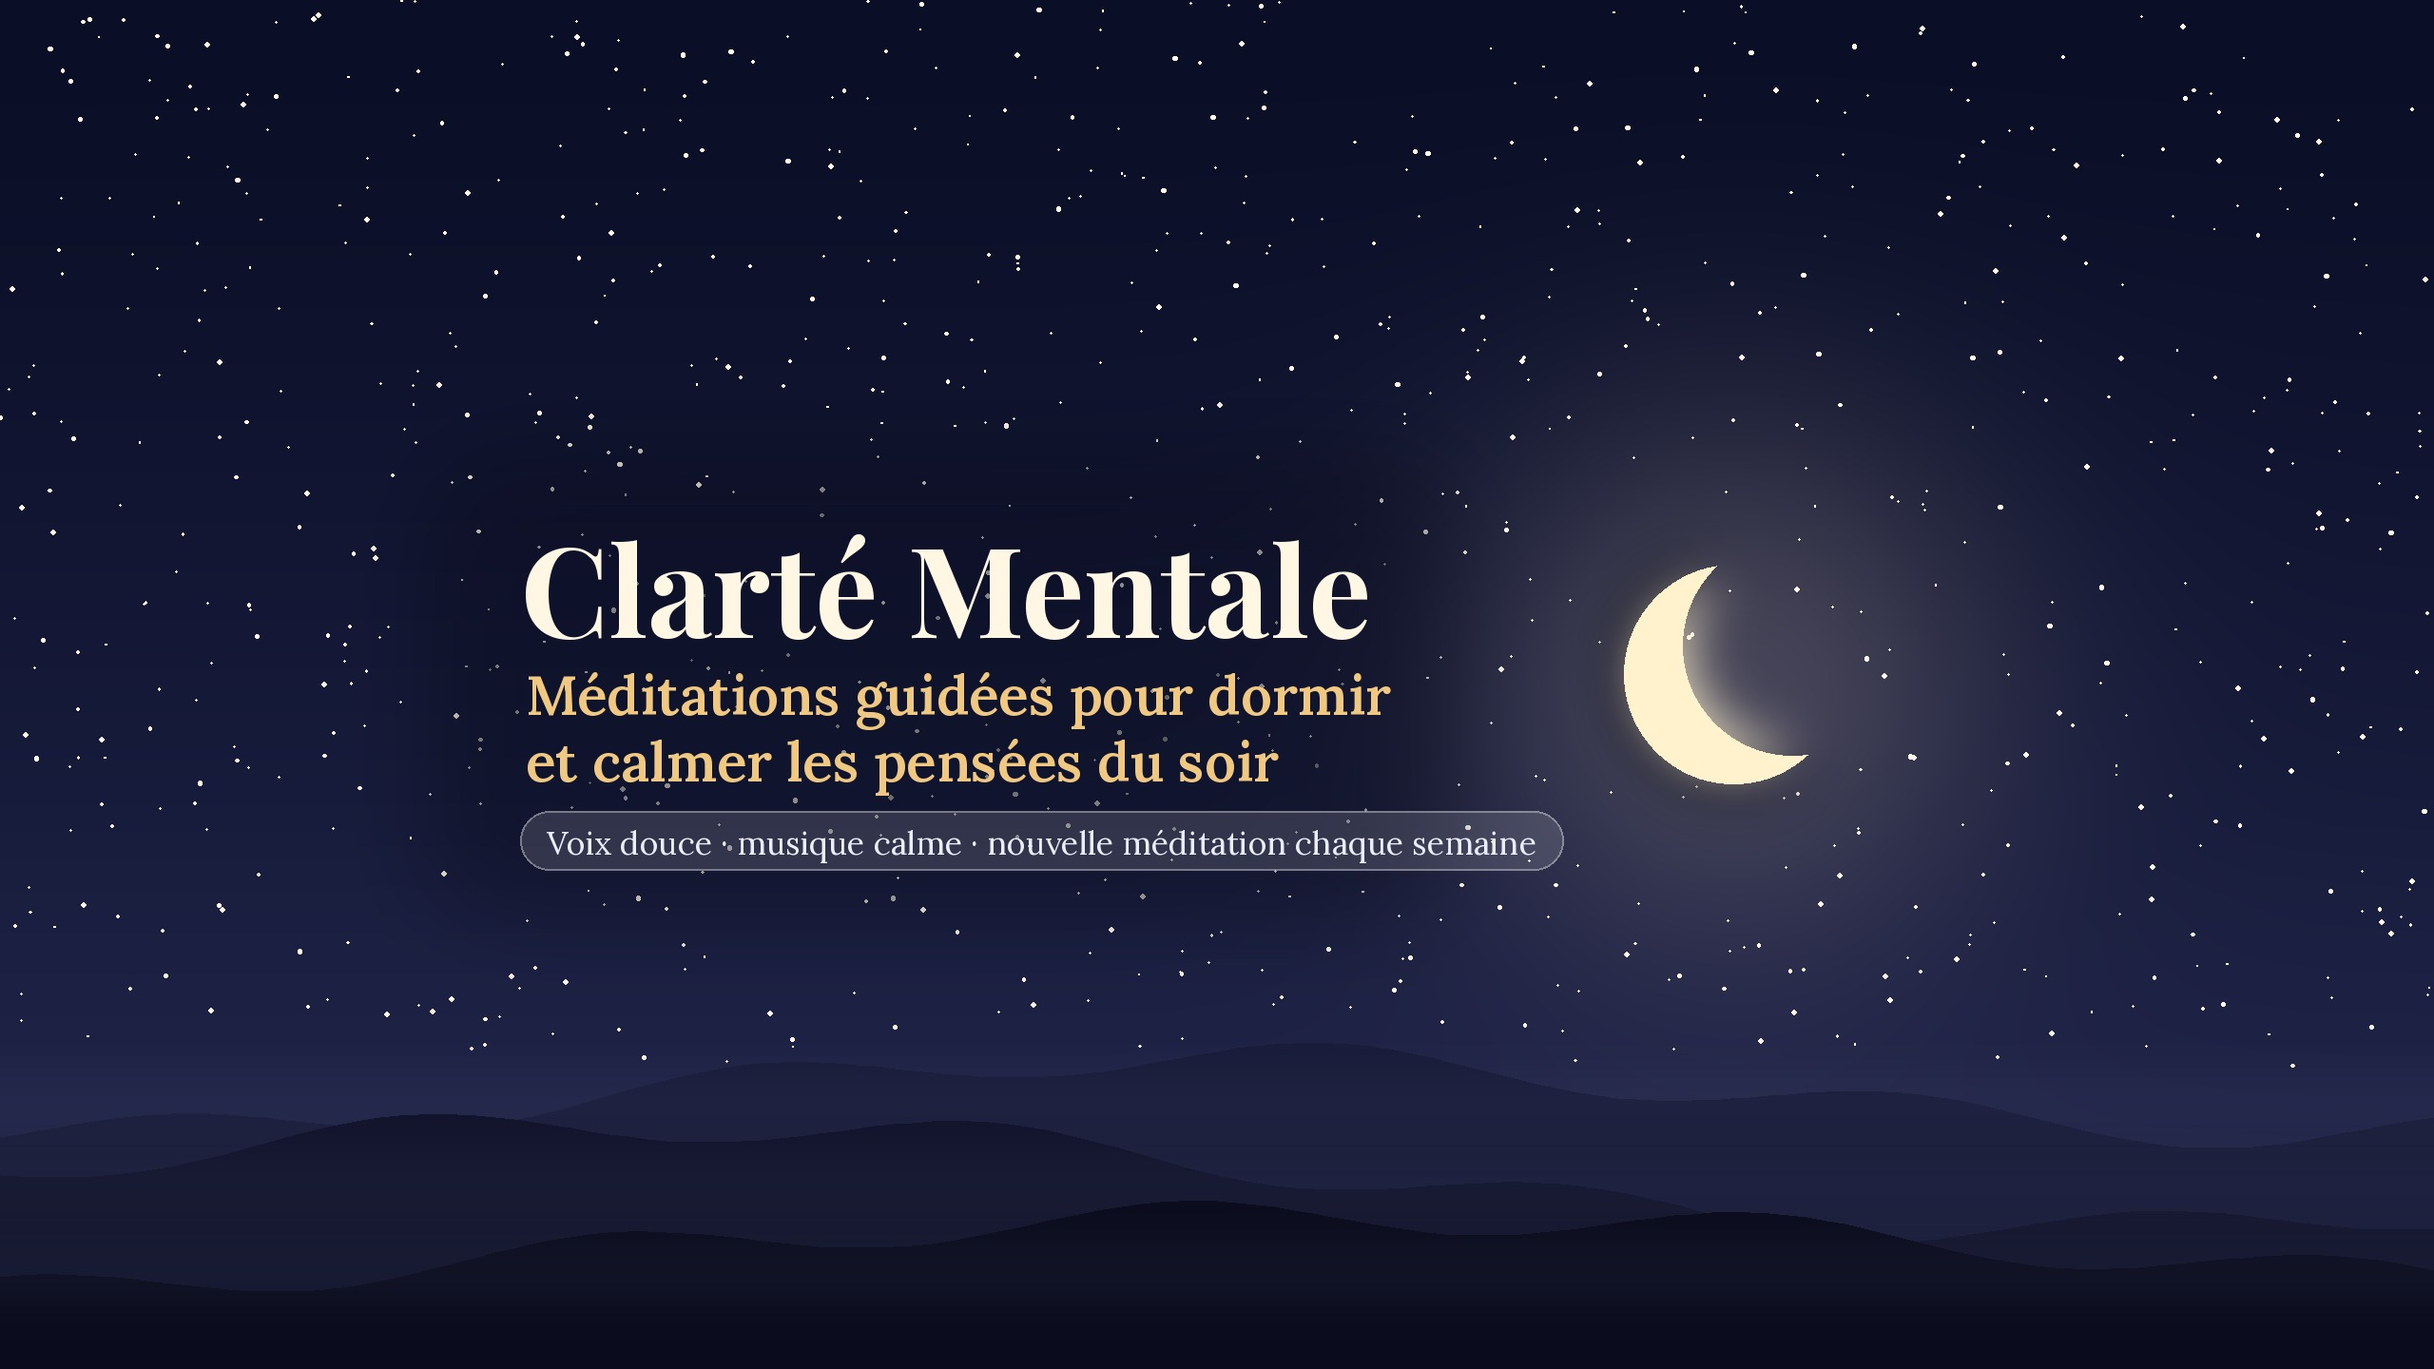
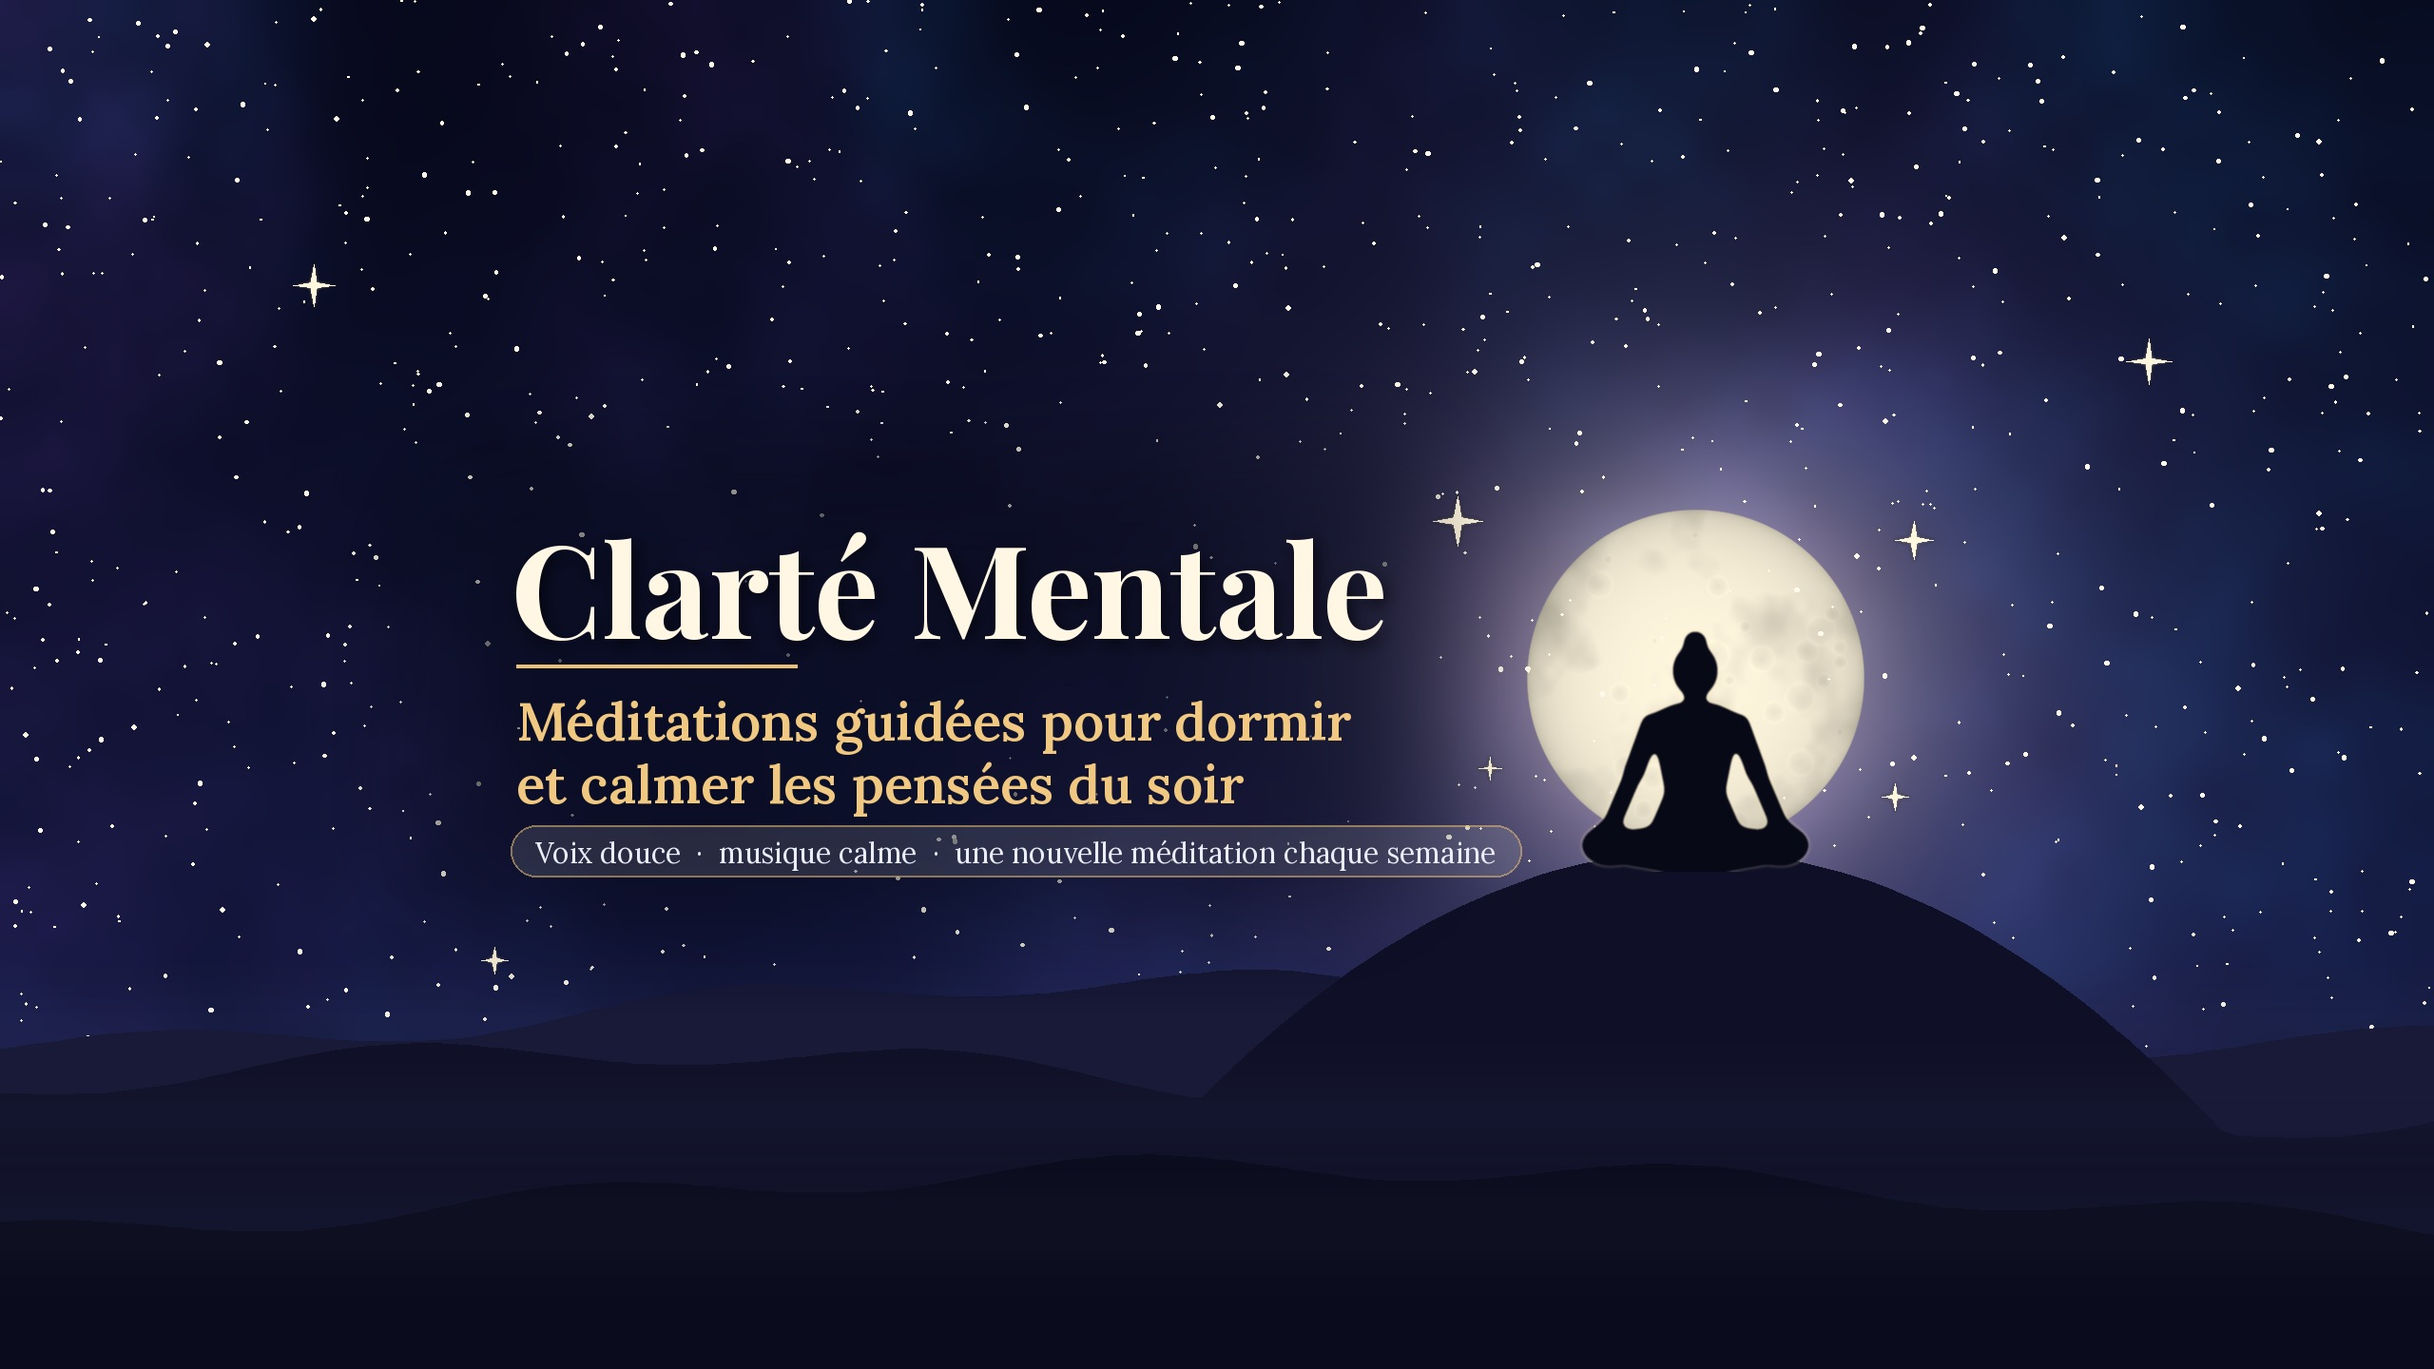
YouTube : bannière refaite dans le style de la photo de profil (pleine lune texturée, personne en méditation, nébuleuse)
Claude-Session: https://claude.ai/code/session_01EcE17eV6yk5R3qKz4smxZG

diff --git a/youtube/banniere.py b/youtube/banniere.py
@@ -1,14 +1,16 @@
 """Bannière de la chaîne YouTube @ClarteMentaleFR (2560×1440, texte dans la zone visible partout : 1546×423 au centre).
-Ciel de nuit dessiné (aucune photo réutilisée), polices OFL du dépôt. Usage : python3 youtube/banniere.py"""
+Même univers que la photo de profil (avatar.py) : ciel à nébuleuse, pleine lune texturée, personne en méditation
+sur une colline. Tout est dessiné (aucune photo), polices OFL du dépôt. Usage : python3 youtube/banniere.py"""
 import math, os, random, sys
 import numpy as np
 from PIL import Image, ImageDraw, ImageFilter, ImageFont
 sys.path.insert(0, os.path.dirname(os.path.abspath(__file__)))
 from commun import POLICES, DEPOT
+from avatar import forme_meditation
 
 W, H = 2560, 1440
 ZX, ZY, ZW, ZH = (W - 1546) // 2, (H - 423) // 2, 1546, 423   # zone visible sur mobile, ordinateur et TV
-LUNE = (ZX + ZW - 230, ZY + ZH // 2 - 10)   # entièrement dans la zone visible, à droite du texte
+LUNE = (ZX + ZW - 270, ZY + 205, 178)                          # centre et rayon, entièrement dans la zone visible
 SORTIE = os.path.join(DEPOT, "videos_youtube", "banniere-chaine.jpg")
 
 
@@ -16,92 +18,149 @@ def police(nom, taille):
     return ImageFont.truetype(os.path.join(POLICES, nom), taille)
 
 
+def bruit(h, w, octaves=5, graine=1):
+    """Bruit fractal normalisé 0-1 (même principe que avatar.bruit, en rectangle)."""
+    rnd = np.random.default_rng(graine)
+    out = np.zeros((h, w))
+    for o in range(octaves):
+        c = 4 * 2 ** o
+        g = rnd.random((c, int(c * w / h) + 1))
+        out += np.asarray(Image.fromarray((g * 255).astype(np.uint8)).resize((w, h), Image.BICUBIC), float) / 255 / 2 ** o
+    out -= out.min()
+    return out / out.max()
+
+
 def ciel():
-    y = np.linspace(0, 1, H)[:, None]
-    x = np.linspace(0, 1, W)[None, :]
-    haut, bas = np.array([10, 14, 38]), np.array([38, 42, 82])
-    img = np.broadcast_to(haut + (bas - haut) * (y ** 1.3)[..., None], (H, W, 3)).astype(float)
-    # halo de lune à droite de la zone de texte
-    lx, ly = LUNE[0] / W, LUNE[1] / H
-    d = np.sqrt(((x - lx) * W / H) ** 2 + (y - ly) ** 2)
-    img += np.array([90, 80, 60]) * np.exp(-(d / 0.20) ** 2)[..., None] * 0.55
-    return Image.fromarray(np.clip(img, 0, 255).astype(np.uint8))
+    y, x = np.mgrid[0:H, 0:W]
+    cx, cy, r = LUNE
+    d = np.sqrt(((x - cx) / H) ** 2 + ((y - cy) / H) ** 2)
+    v = y / H
+    fond = np.array([6, 8, 26]) + (np.array([22, 26, 70]) - np.array([6, 8, 26])) * (v ** 1.2)[..., None]
+    fond = fond + np.array([20, 18, 40]) * np.clip(1 - d * 1.3, 0, 1)[..., None] ** 2
+    neb = (np.array([80, 45, 120]) * (bruit(H, W, 5, 4)[..., None] ** 3) * 0.28
+           + np.array([25, 85, 135]) * (bruit(H, W, 4, 9)[..., None] ** 4) * 0.32)
+    img = fond + neb
+    for rayon, force in [(r * 2.6, 0.08), (r * 1.6, 0.15), (r * 1.12, 0.40)]:      # halos de la lune
+        dd = np.sqrt((x - cx) ** 2 + (y - cy) ** 2)
+        img += np.array([255, 225, 170]) * (np.exp(-(dd / rayon) ** 2) * force)[..., None]
+    return img
+
+
+def lune(img):
+    """Pleine lune texturée (mers, cratères, limbe), calculée seulement autour du disque."""
+    cx, cy, r = LUNE
+    x0, y0, x1, y1 = int(cx - r - 3), int(cy - r - 3), int(cx + r + 4), int(cy + r + 4)
+    y, x = np.mgrid[y0:y1, x0:x1]
+    d = np.sqrt((x - cx) ** 2 + (y - cy) ** 2)
+    mers = bruit(y1 - y0, x1 - x0, 4, 21)
+    rnd = random.Random(5)
+    crat = np.zeros(d.shape)
+    for _ in range(28):
+        a, rr = rnd.uniform(0, 2 * math.pi), r * math.sqrt(rnd.random()) * 0.92
+        px, py, cr = cx + rr * math.cos(a), cy + rr * math.sin(a), rnd.uniform(r * 0.02, r * 0.09)
+        dd = np.sqrt((x - px) ** 2 + (y - py) ** 2)
+        crat += np.clip(1 - dd / cr, 0, 1) * 0.5 - np.clip(1 - np.abs(dd - cr) / (cr * 0.25), 0, 1) * 0.15
+    limbe = np.sqrt(np.clip(1 - (d / r) ** 2, 0, 1)) ** 0.35
+    teinte = np.array([255, 246, 222]) * (1.0 - 0.16 * np.clip((mers[..., None] - 0.5) * 2.2, 0, 1)
+                                          - 0.10 * crat[..., None]) * (0.55 + 0.45 * limbe[..., None])
+    bord = (np.clip(r - d, 0, 1.5) / 1.5)[..., None]
+    img[y0:y1, x0:x1] = img[y0:y1, x0:x1] * (1 - bord) + np.clip(teinte, 0, 255) * bord
+    return img
 
 
 def etoiles(im):
-    rnd = random.Random(7)
     d = ImageDraw.Draw(im)
-    for _ in range(900):
+    rnd = random.Random(7)
+    for _ in range(1100):
         x, y = rnd.uniform(0, W), rnd.uniform(0, H * 0.78)
-        r = rnd.choice([0.8, 1, 1, 1.4, 1.8, 2.4])
-        a = rnd.randint(90, 235)
-        d.ellipse([x - r, y - r, x + r, y + r], fill=(255, 250, 235, a))
+        if ZX - 30 < x < ZX + 1000 and ZY - 20 < y < ZY + ZH + 20 and rnd.random() < 0.75:
+            continue                                   # moins d'étoiles derrière le texte
+        r = rnd.choice([0.8, 1, 1, 1.3, 1.7, 2.2])
+        d.ellipse([x - r, y - r, x + r, y + r], fill=(255, 250, 235, rnd.randint(90, 230)))
+    for (x, y, l) in [(ZX + ZW - 520, ZY + 40, 26), (ZX + ZW - 40, ZY + 60, 20), (ZX + ZW - 60, ZY + 330, 14),
+                      (ZX + 1060, ZY + 300, 12), (330, 300, 22), (2260, 380, 24), (520, 1010, 14)]:
+        calque = Image.new("RGBA", im.size, (0, 0, 0, 0))
+        dc = ImageDraw.Draw(calque)
+        dc.polygon([(x, y - l), (x + l * 0.16, y), (x, y + l), (x - l * 0.16, y)], fill=(255, 246, 222, 255))
+        dc.polygon([(x - l, y), (x, y + l * 0.16), (x + l, y), (x, y - l * 0.16)], fill=(255, 246, 222, 255))
+        im.alpha_composite(calque.filter(ImageFilter.GaussianBlur(2)))
+        im.alpha_composite(calque)
     return im
 
 
-def lune(im):
-    (cx, cy), r = LUNE, 115
-    calque = Image.new("RGBA", im.size, (0, 0, 0, 0))
-    d = ImageDraw.Draw(calque)
-    d.ellipse([cx - r, cy - r, cx + r, cy + r], fill=(255, 242, 205, 255))
-    # croissant : on retire un disque décalé
-    masque = Image.new("L", im.size, 0)
-    ImageDraw.Draw(masque).ellipse([cx - r + 62, cy - r - 30, cx + r + 62, cy + r - 30], fill=255)
-    calque.putalpha(Image.fromarray(np.minimum(np.array(calque.split()[3]), 255 - np.array(masque))))
-    lueur = calque.filter(ImageFilter.GaussianBlur(28))
-    im.alpha_composite(lueur)
-    im.alpha_composite(calque)
-    return im
-
-
-def collines(im):
-    """Lignes de collines et brume en bas : profondeur, sans détail qui gêne le texte."""
+def paysage(im):
+    """Collines en couches avec brume, puis la personne en méditation au sommet, devant la lune."""
+    cx, cy, r = LUNE
+    sommet = ZY + ZH - 42                           # le bas de la silhouette reste dans la zone visible
     rnd = random.Random(3)
-    for i, (base, coul, amp) in enumerate([(0.80, (24, 28, 58, 255), 40), (0.86, (17, 20, 44, 255), 55),
-                                           (0.92, (10, 12, 30, 255), 45)]):
+    for i, (base, coul, amp) in enumerate([(0.74, (20, 22, 52), 34), (0.80, (15, 16, 40), 46), (0.88, (10, 11, 28), 40)]):
         c = Image.new("RGBA", im.size, (0, 0, 0, 0))
         ph = rnd.uniform(0, 6)
-        pts = [(x, H * base + amp * math.sin(x / (380 + 90 * i) + ph) + 18 * math.sin(x / 97 + ph * 2))
-               for x in range(0, W + 20, 20)]
-        ImageDraw.Draw(c).polygon(pts + [(W, H), (0, H)], fill=coul)
+        pts = []
+        for x in range(0, W + 20, 16):
+            yv = H * base + amp * math.sin(x / (360 + 90 * i) + ph) + 14 * math.sin(x / 93 + ph * 2)
+            if i == 1:                              # colline principale qui monte jusqu'à la personne
+                yv = min(yv, sommet + 6 + ((x - cx) / 520) ** 2 * 260)
+            pts.append((x, yv))
+        ImageDraw.Draw(c).polygon(pts + [(W, H), (0, H)], fill=coul + (255,))
         im.alpha_composite(c)
         brume = Image.new("RGBA", im.size, (0, 0, 0, 0))
-        ImageDraw.Draw(brume).rectangle([0, H * base - 30, W, H * base + 50], fill=(180, 190, 230, 22))
-        im.alpha_composite(brume.filter(ImageFilter.GaussianBlur(40)))
+        ImageDraw.Draw(brume).rectangle([0, H * base - 20, W, H * base + 60], fill=(170, 180, 230, 20))
+        im.alpha_composite(brume.filter(ImageFilter.GaussianBlur(45)))
+    # personne : dessinée en 3× dans sa boîte puis réduite, contour souple + liseré lunaire
+    K, u = 3, 0.7
+    bw, bh = int(420 * u), int(420 * u)
+    m = Image.new("L", (bw * K, bh * K), 0)
+    forme_meditation(ImageDraw.Draw(m), bw * K / 2, (bh - 40 * u) * K, u * K)
+    m = m.filter(ImageFilter.GaussianBlur(7 * u * K)).point(lambda v: 255 if v > 118 else 0)
+    m = m.filter(ImageFilter.GaussianBlur(0.8 * K)).resize((bw, bh), Image.LANCZOS)
+    pos = (int(cx - bw / 2), int(sommet - (bh - 40 * u)))
+    contour = m.filter(ImageFilter.MaxFilter(3))
+    liser = Image.new("RGBA", (bw, bh), (255, 230, 180, 0))
+    liser.putalpha(Image.fromarray(np.clip(np.asarray(contour, float) - np.asarray(m, float), 0, 255).astype(np.uint8) // 2))
+    calque = Image.new("RGBA", (bw, bh), (8, 9, 22, 255))
+    calque.putalpha(m)
+    im.alpha_composite(liser.filter(ImageFilter.GaussianBlur(1.2)), pos)
+    im.alpha_composite(calque, pos)
     return im
 
 
 def textes(im):
-    d = ImageDraw.Draw(im)
-    gauche = ZX + 40
-    # voile doux derrière le texte pour la lisibilité
+    gauche = ZX + 30
     voile = Image.new("RGBA", im.size, (0, 0, 0, 0))
-    ImageDraw.Draw(voile).rounded_rectangle([ZX - 40, ZY - 10, ZX + 1000, ZY + ZH + 10], 60, fill=(8, 10, 28, 110))
-    im.alpha_composite(voile.filter(ImageFilter.GaussianBlur(50)))
+    ImageDraw.Draw(voile).rounded_rectangle([ZX - 60, ZY - 20, ZX + 990, ZY + ZH + 20], 80, fill=(6, 8, 24, 120))
+    im.alpha_composite(voile.filter(ImageFilter.GaussianBlur(60)))
     d = ImageDraw.Draw(im)
-    d.text((gauche, ZY + 20), "Clarté Mentale", font=police("PlayfairDisplay-Bold.ttf", 132), fill=(255, 247, 228))
-    d.text((gauche + 6, ZY + 185), "Méditations guidées pour dormir", font=police("Lora-SemiBold.ttf", 58), fill=(240, 200, 130))
-    d.text((gauche + 6, ZY + 255), "et calmer les pensées du soir", font=police("Lora-SemiBold.ttf", 58), fill=(240, 200, 130))
-    pastille = "Voix douce · musique calme · nouvelle méditation chaque semaine"
-    f = police("Lora-Regular.ttf", 34)
-    tw = d.textlength(pastille, font=f)
-    x0, y0 = gauche, ZY + 345
+    titre, ft = "Clarté Mentale", police("PlayfairDisplay-Bold.ttf", 136)
+    ombre = Image.new("RGBA", im.size, (0, 0, 0, 0))
+    ImageDraw.Draw(ombre).text((gauche + 4, ZY + 22), titre, font=ft, fill=(0, 0, 0, 160))
+    im.alpha_composite(ombre.filter(ImageFilter.GaussianBlur(8)))
+    d = ImageDraw.Draw(im)
+    d.text((gauche, ZY + 16), titre, font=ft, fill=(255, 247, 228))
+    tw = d.textlength(titre, font=ft)
+    d.line([(gauche + 6, ZY + 192), (gauche + 6 + tw * 0.32, ZY + 192)], fill=(232, 192, 120), width=4)   # filet doré
+    fs = police("Lora-SemiBold.ttf", 56)
+    d.text((gauche + 6, ZY + 214), "Méditations guidées pour dormir", font=fs, fill=(240, 200, 130))
+    d.text((gauche + 6, ZY + 280), "et calmer les pensées du soir", font=fs, fill=(240, 200, 130))
+    pastille = "Voix douce  ·  musique calme  ·  une nouvelle méditation chaque semaine"
+    f = police("Lora-Regular.ttf", 30)
+    pw = d.textlength(pastille, font=f)
+    x0, y0 = gauche, ZY + 360
     calque = Image.new("RGBA", im.size, (0, 0, 0, 0))   # transparence réelle (ImageDraw seul ne mélange pas)
-    ImageDraw.Draw(calque).rounded_rectangle([x0, y0, x0 + tw + 56, y0 + 62], 31, fill=(255, 255, 255, 34),
-                                             outline=(255, 255, 255, 110), width=2)
+    ImageDraw.Draw(calque).rounded_rectangle([x0, y0, x0 + pw + 52, y0 + 54], 27, fill=(255, 255, 255, 30),
+                                             outline=(232, 192, 120, 150), width=2)
     im.alpha_composite(calque)
-    d = ImageDraw.Draw(im)
-    d.text((x0 + 28, y0 + 11), pastille, font=f, fill=(235, 238, 250))
+    ImageDraw.Draw(im).text((x0 + 26, y0 + 9), pastille, font=f, fill=(235, 238, 250))
     return im
 
 
 def fabriquer():
-    im = ciel().convert("RGBA")
+    img = lune(ciel())
+    im = Image.fromarray(np.clip(img, 0, 255).astype(np.uint8)).convert("RGBA")
     im = etoiles(im)
-    im = lune(im)
-    im = collines(im)
+    im = paysage(im)
     im = textes(im)
-    im.convert("RGB").save(SORTIE, quality=92, optimize=True)
+    im.convert("RGB").save(SORTIE, quality=93, optimize=True)
     return SORTIE
 
 

diff --git a/youtube/avatar.py b/youtube/avatar.py
@@ -57,17 +57,8 @@ def lune(img, cx, cy, r):
     return img
 
 
-def silhouette(im):
-    """Personne assise en tailleur, mains sur les genoux, sur une colline. Formes simples fondues entre elles
-    (flou puis seuil) pour un contour souple, sans angles de robot."""
-    u = S / 800
-    d = ImageDraw.Draw(im)
-    pts = [(x, S * 0.81 + 18 * u * math.sin(x / (110 * u)) - 34 * u * math.exp(-((x - S / 2) / (240 * u)) ** 2))
-           for x in range(0, S + 10, 6)]
-    d.polygon(pts + [(S, S), (0, S)], fill=(13, 14, 34, 255))
-    m = Image.new("L", im.size, 0)
-    dm = ImageDraw.Draw(m)
-    bx, by = S / 2, S * 0.765
+def forme_meditation(dm, bx, by, u):
+    """Formes de la personne en méditation (bassin en bx, by ; u = échelle) ; partagé avec la bannière."""
     E = lambda x, y, rx, ry: dm.ellipse([bx + (x - rx) * u, by + (y - ry) * u, bx + (x + rx) * u, by + (y + ry) * u], fill=255)
     E(0, -262, 33, 39)                      # tête
     E(0, -306, 17, 15)                      # chignon
@@ -82,6 +73,18 @@ def silhouette(im):
         E(sg * 130, -22, 19, 15)            # main posée sur le genou
         E(sg * 128, 0, 42, 30)              # genou
     E(0, 4, 150, 34)                        # jambes croisées
+
+
+def silhouette(im):
+    """Personne assise en tailleur, mains sur les genoux, sur une colline. Formes simples fondues entre elles
+    (flou puis seuil) pour un contour souple, sans angles de robot."""
+    u = S / 800
+    d = ImageDraw.Draw(im)
+    pts = [(x, S * 0.81 + 18 * u * math.sin(x / (110 * u)) - 34 * u * math.exp(-((x - S / 2) / (240 * u)) ** 2))
+           for x in range(0, S + 10, 6)]
+    d.polygon(pts + [(S, S), (0, S)], fill=(13, 14, 34, 255))
+    m = Image.new("L", im.size, 0)
+    forme_meditation(ImageDraw.Draw(m), S / 2, S * 0.765, u)
     m = m.filter(ImageFilter.GaussianBlur(7 * u)).point(lambda v: 255 if v > 118 else 0)
     m = m.filter(ImageFilter.GaussianBlur(0.8 * u))
     calque = Image.new("RGBA", im.size, (8, 9, 22, 255))
